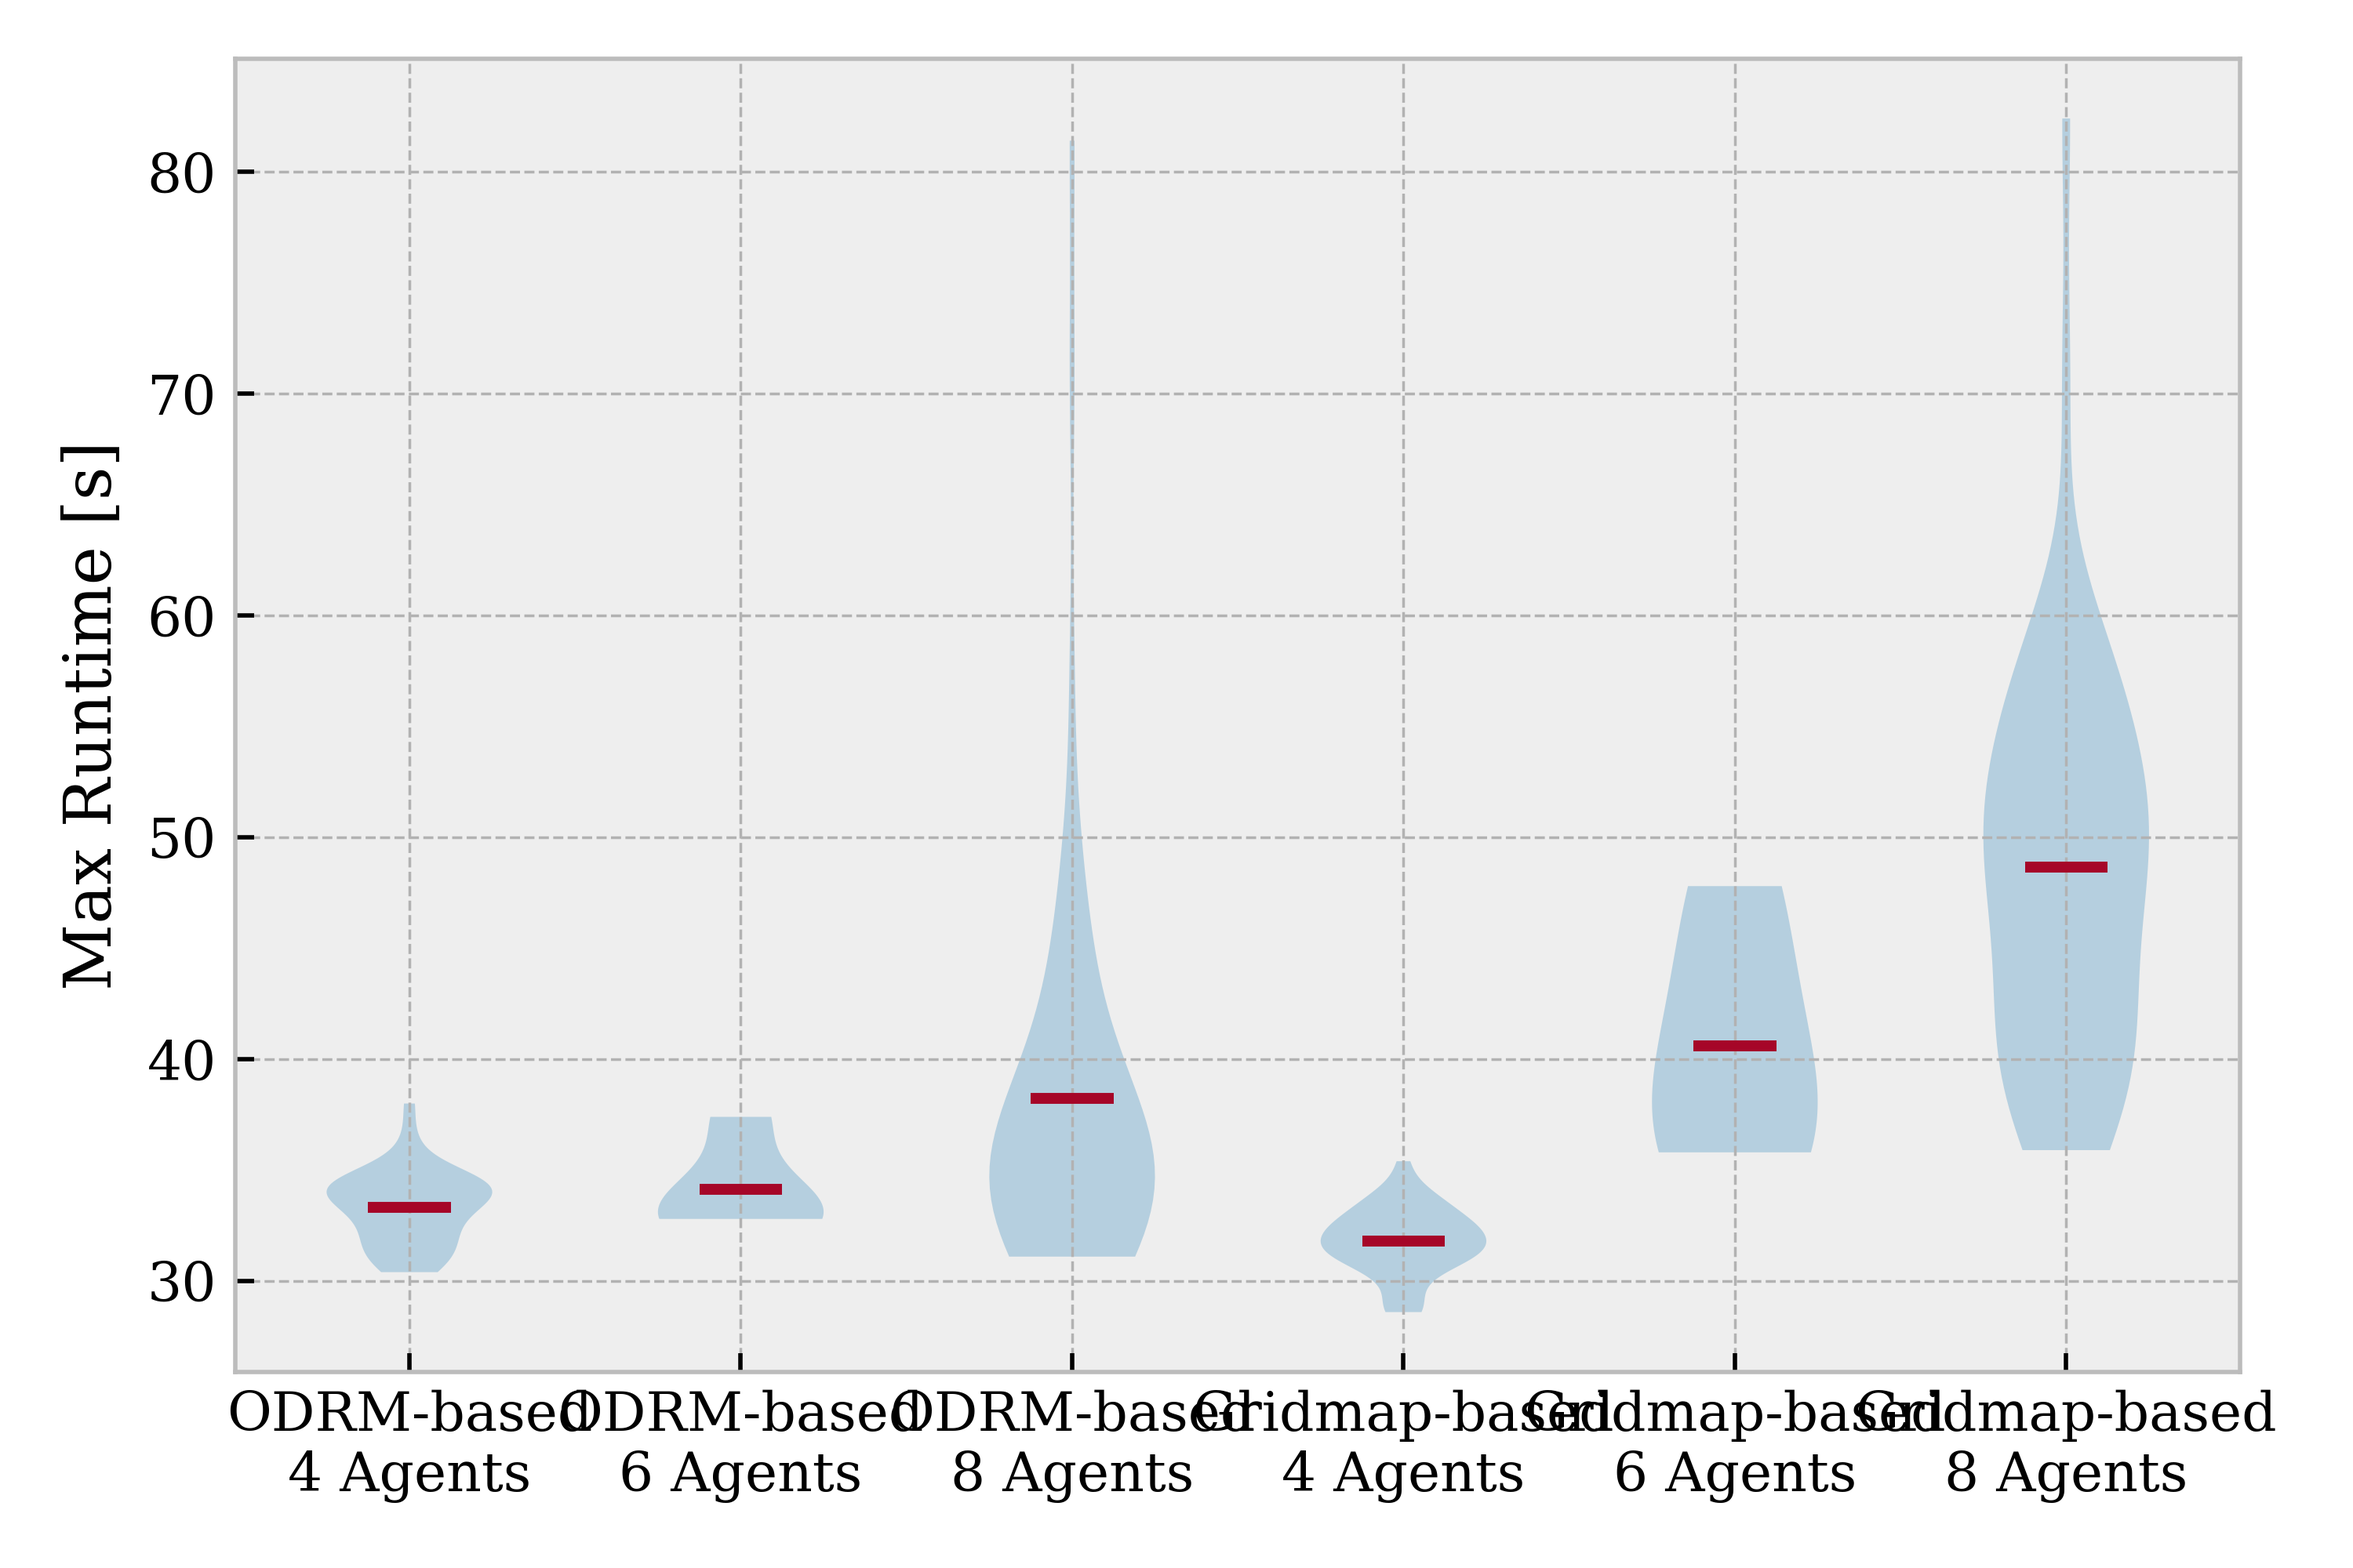
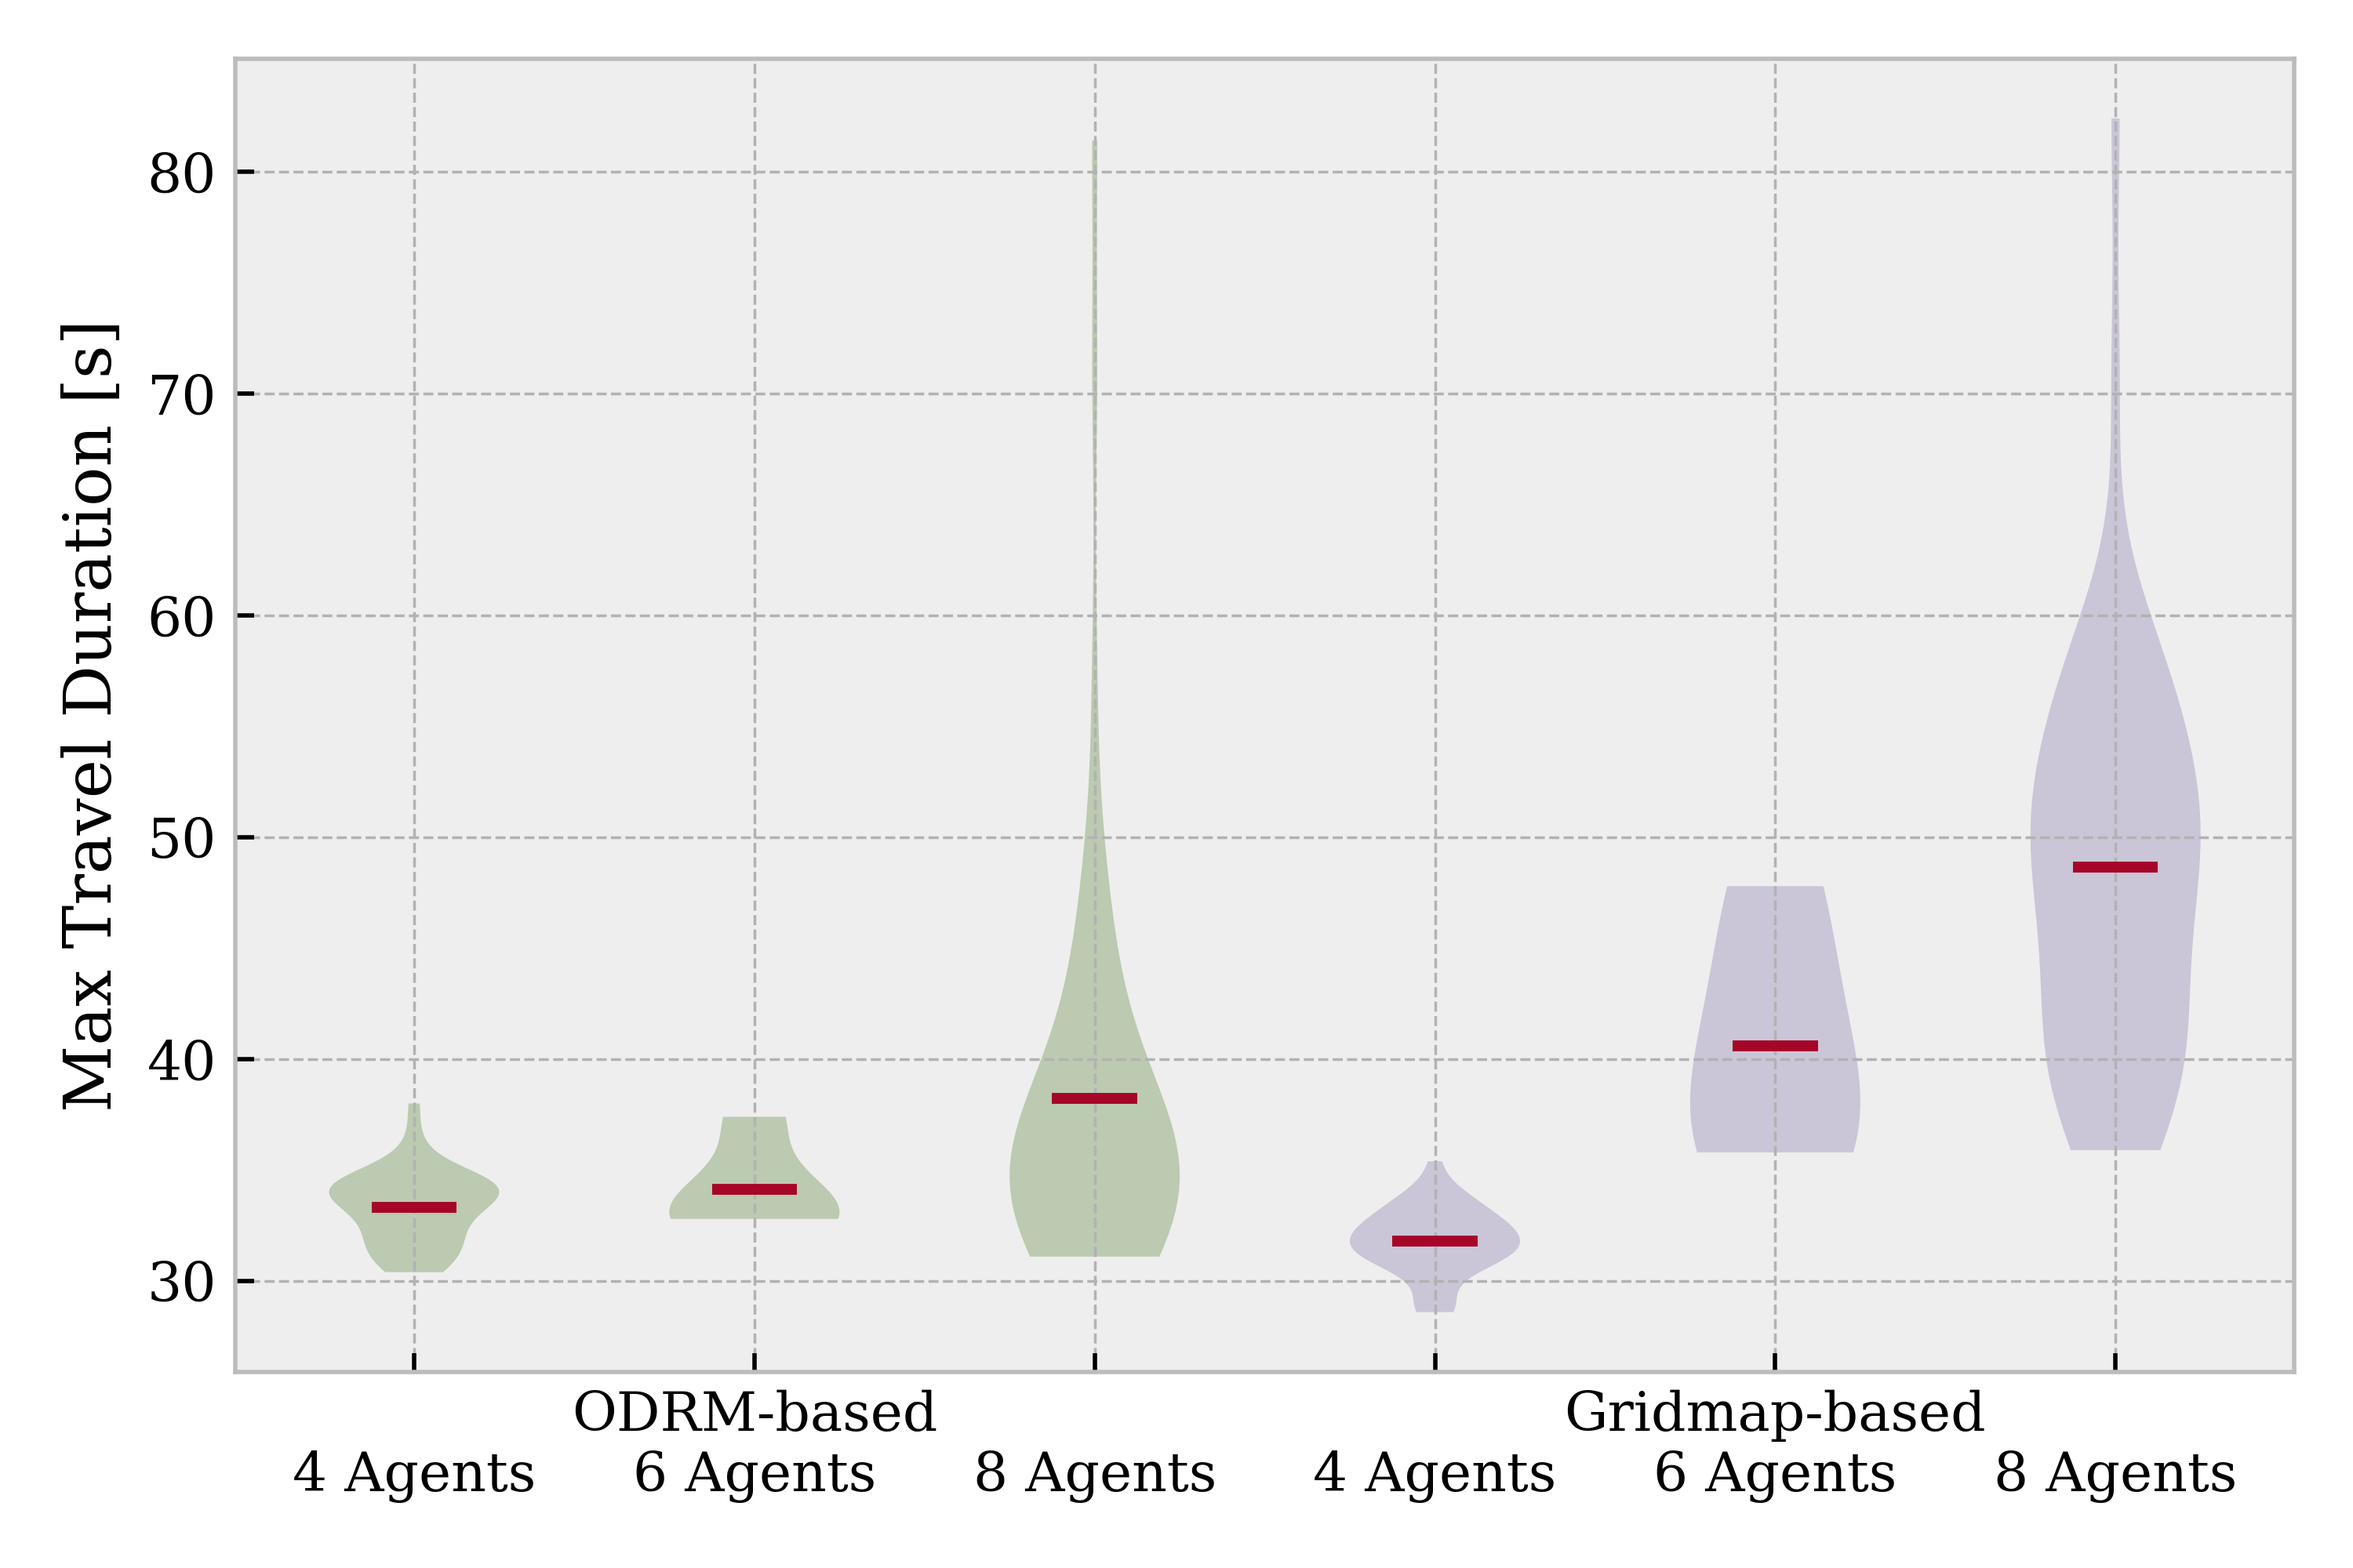
finished figure

diff --git a/roadmaps/adamsmap_nav/src/plot_benchmark.py b/roadmaps/adamsmap_nav/src/plot_benchmark.py
@@ -4,6 +4,8 @@ import os
 import pickle
 import sys
 
+ODRM_STR = "ODRM-based"
+
 if __name__ == "__main__":
     plt.style.use('bmh')
     plt.rcParams["font.family"] = "serif"
@@ -25,19 +27,33 @@ if __name__ == "__main__":
                 ns_agents.append(fname.split(".")[1].split("-")[-1])
                 planner = fname.split("-")[0]
                 if planner == "adamsmap_global_planner":
-                    planners.append("ODRM-based")
+                    planners.append(ODRM_STR)
                 else:
                     planners.append("Gridmap-based")
 
 
     fig, ax = plt.subplots(nrows=1, ncols=1, figsize=(6, 4))
     violin_parts = ax.violinplot(data, showmeans=True, showextrema=False)
-    violin_parts['cmeans'].set_color("C1")
     idx = range(len(data))
+    violin_parts['cmeans'].set_color("C1")
+    for i in idx:
+        if planners[i] == ODRM_STR:
+            violin_parts['bodies'][i].set_facecolor("C3")
+        else:
+            violin_parts['bodies'][i].set_facecolor("C2")
+    print(violin_parts['cmeans'])
     ax.set_xticks([x + 1 for x in idx])
+
+    def get_label(x):
+        if x == 1 or x == 4:
+            return planners[x] + "\n" + ns_agents[x] + " Agents"
+        else:
+            return "\n" + ns_agents[x] + " Agents"
+
     ax.set_xticklabels(
-        map(lambda x: planners[x] + "\n" + ns_agents[x] + " Agents", idx)
+        map(get_label, idx)
     )
-    ax.set_ylabel("Max Runtime [s]")
+    ax.set_ylabel("Max Travel Duration [s]")
+    # plt.title("Decentralized Planner Travel Duration")
     plt.tight_layout()
     fig.savefig(folder + 'decentralized_travel_times.png')
